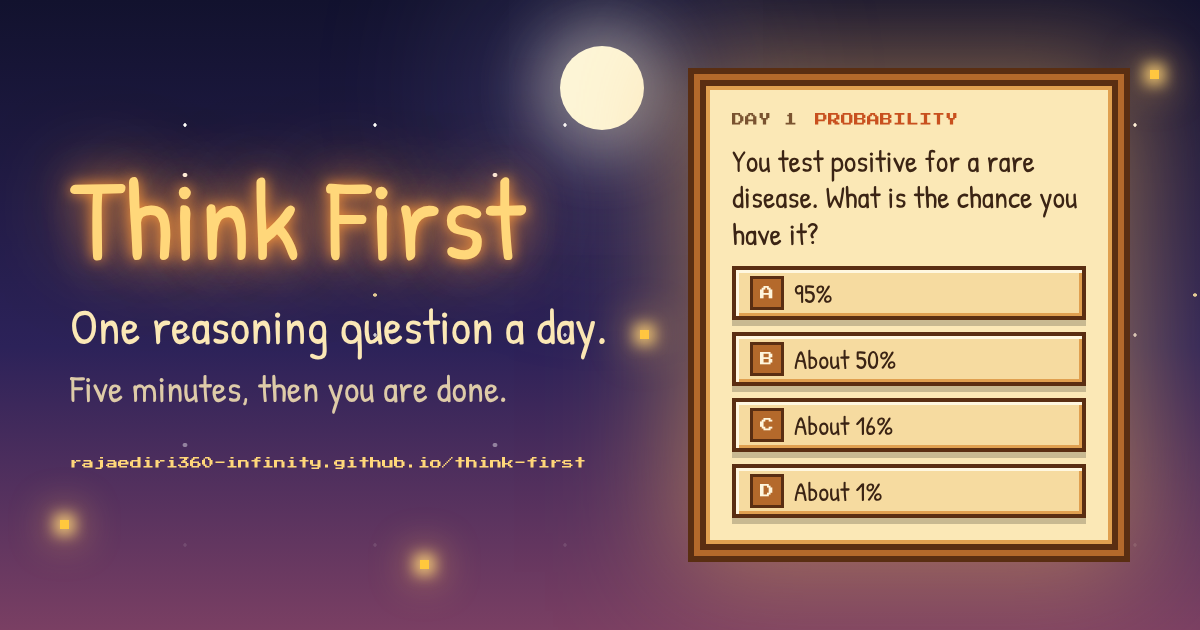
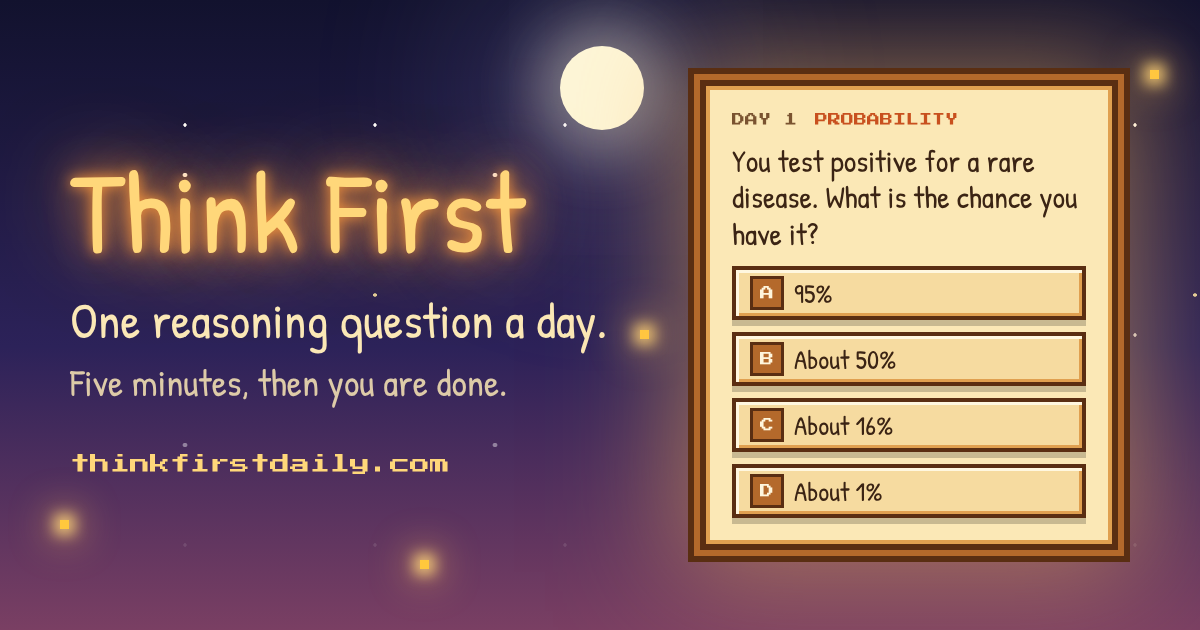
Move the site's address to thinkfirstdaily.com
Link-preview tags and the preview image now use the new address. The custom
domain itself is switched on in repository settings once DNS is in place.

Claude-Session: https://claude.ai/code/session_01ScZYvzFMDkWim6QPF4tJjD

diff --git a/index.html b/index.html
@@ -8,8 +8,8 @@
 <meta property="og:title" content="Think First">
 <meta property="og:description" content="One reasoning question a day. Five minutes, then you are done.">
 <meta property="og:type" content="website">
-<meta property="og:url" content="https://rajaediri360-infinity.github.io/think-first/">
-<meta property="og:image" content="https://rajaediri360-infinity.github.io/think-first/og.png">
+<meta property="og:url" content="https://thinkfirstdaily.com/">
+<meta property="og:image" content="https://thinkfirstdaily.com/og.png">
 <meta property="og:image:width" content="1200">
 <meta property="og:image:height" content="630">
 <meta property="og:image:alt" content="Think First. One reasoning question a day, with a sample question about testing positive for a rare disease.">

diff --git a/README.md b/README.md
@@ -42,6 +42,8 @@ Edit `LAUNCH` in the script: `{ year: 2026, month: 10, day: 12 }`.
 
 The page runs on any static host. On GitHub Pages: repository Settings, then Pages, then deploy from the `main` branch, root folder.
 
+The site's address is `thinkfirstdaily.com`. The domain is registered at Porkbun, and its DNS points at GitHub Pages. The custom domain is set in repository Settings, then Pages, which keeps a `CNAME` file in this repository. Do not delete that file.
+
 ## Visitor counting and email sign-up
 
 Both are built in and switched off until their settings are filled in, near the top of the script in `index.html`:
